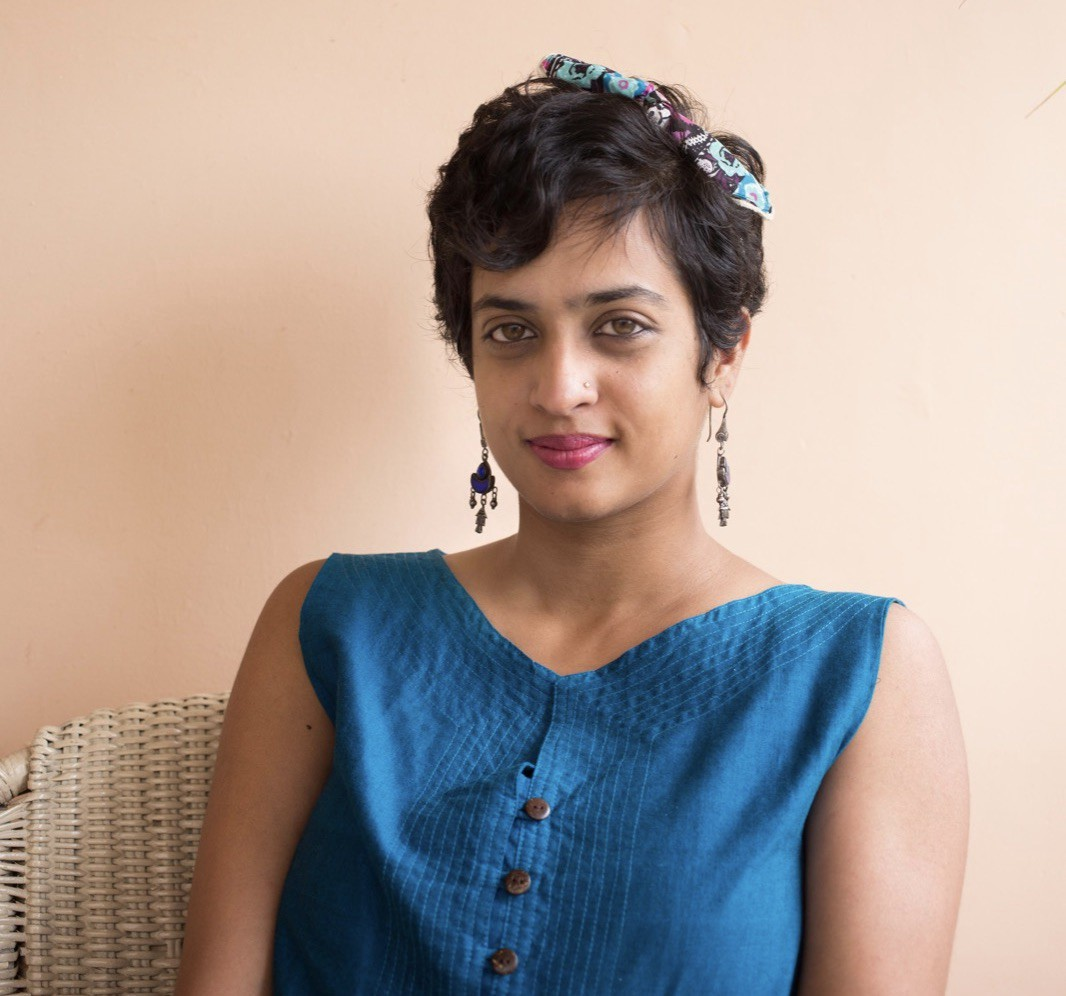
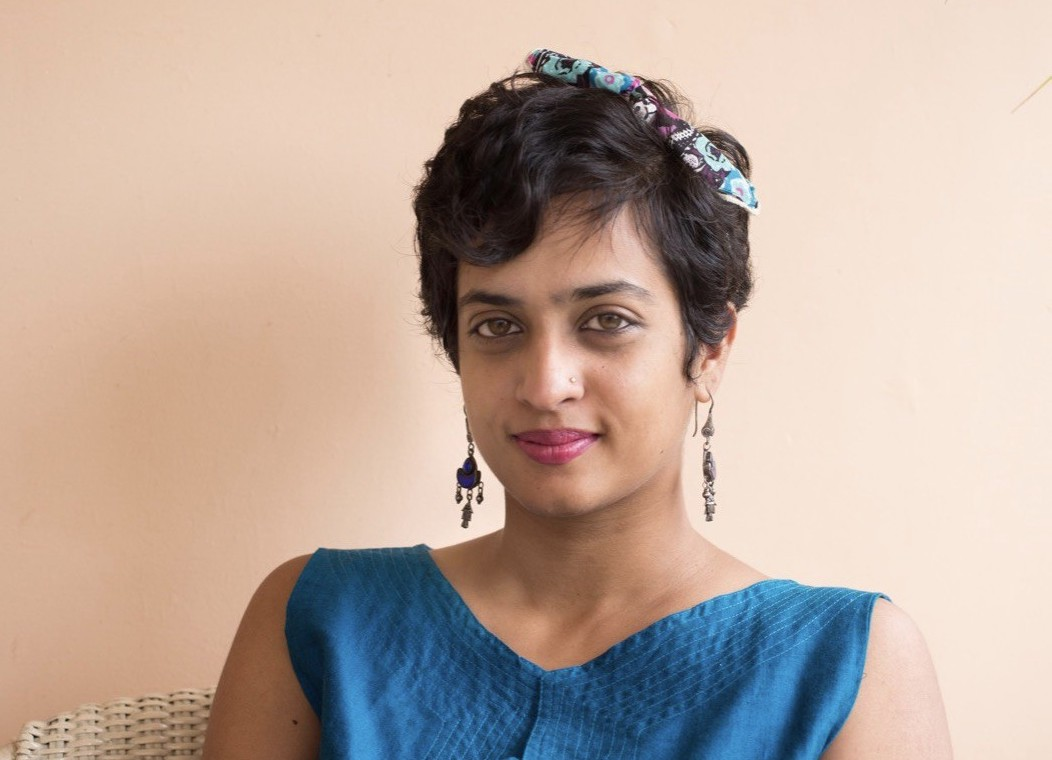
equal img size

diff --git a/index.html b/index.html
@@ -33,10 +33,10 @@ title: Home
           <div class="col-md-4">
             {% if i.image %}
             <!-- default is gif -->
-            <img src="{{ site.url }}{{ i.dir }}png.png" class="img-fluid rounded-start" alt="...">
+            <img src="{{ site.url }}{{ i.dir }}png.png" class="card-img img-fluid rounded-start" alt="...">
             {% else i.image %}
 
-            <img src="{{ site.url }}{{ i.dir }}gif.gif" class="img-fluid rounded-start" alt="...">
+            <img src="{{ site.url }}{{ i.dir }}gif.gif" class="card-img img-fluid rounded-start" alt="...">
             {% endif %}
           </div>
 
@@ -62,7 +62,7 @@ title: Home
       <div class="card" onclick="window.open(location.href='{{ i.link }}', '_blank', 'noopener,noreferrer')">
         <div class="row">
           <div class="col-md-4">
-            <img src="{{ site.url }}/assets/images/{{ i.name }}.jpg" class="img-fluid rounded-start" alt="...">
+            <img src="{{ site.url }}/assets/images/{{ i.name }}.jpg" class="card-img img-fluid rounded-start" alt="...">
           </div>
           <div class="col">
             <div class="card-body">

diff --git a/assets/css/style.css b/assets/css/style.css
@@ -12,6 +12,12 @@ body {
 
 }
 
+.card-img {
+    width: 100%;
+    height: 18vw;
+    object-fit: cover;
+}
+
 footer {
     position: relative;
     padding: 25px 10px;
